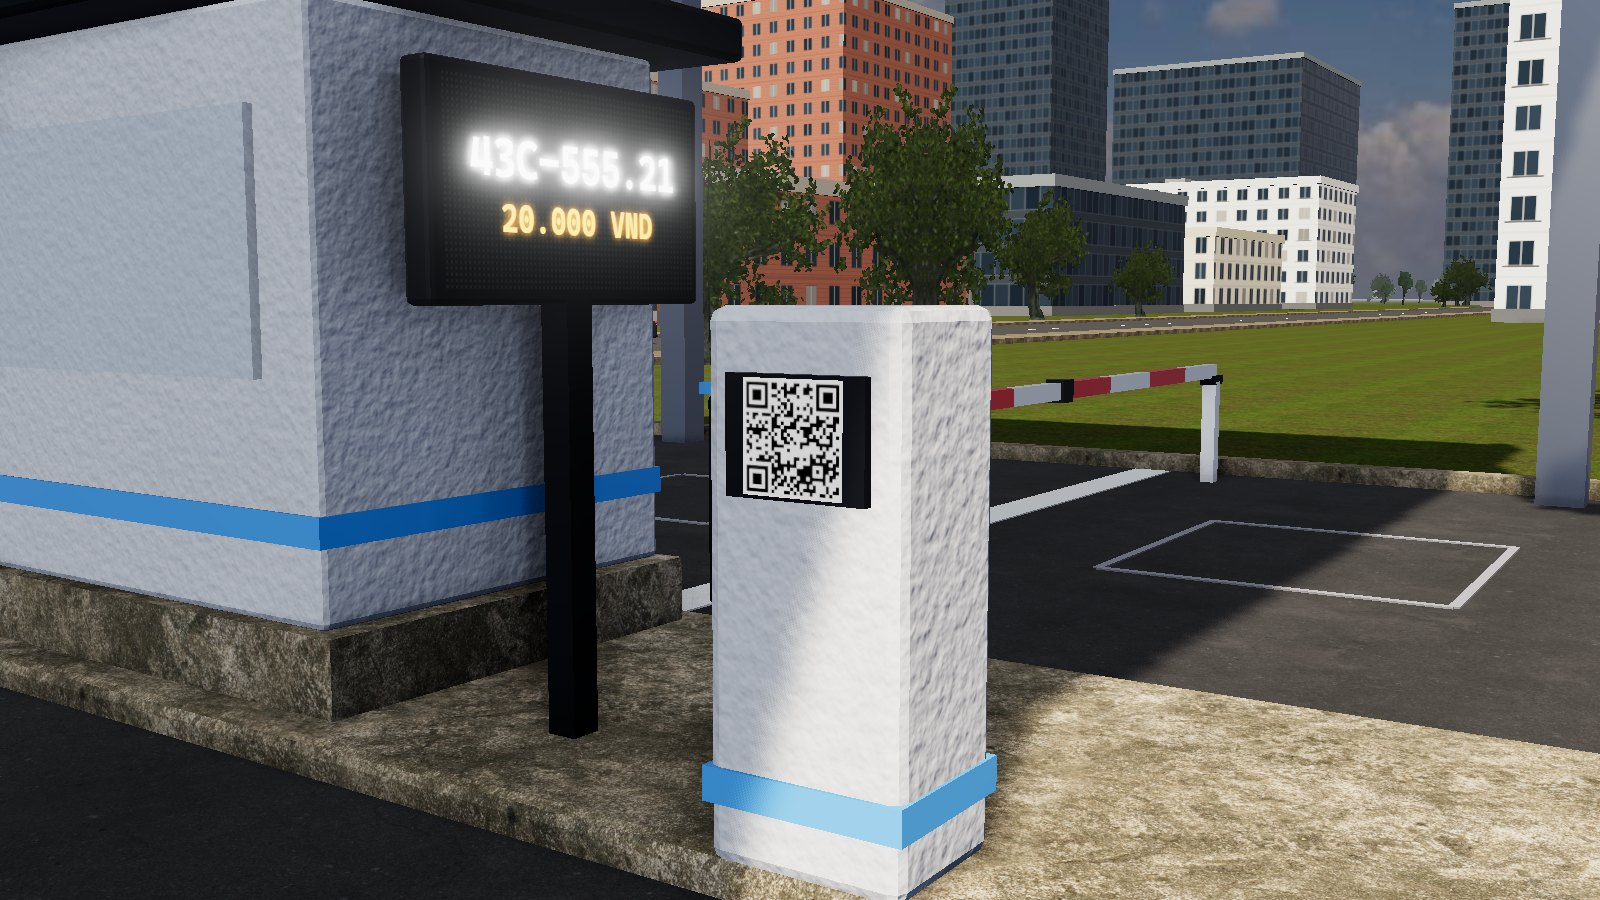
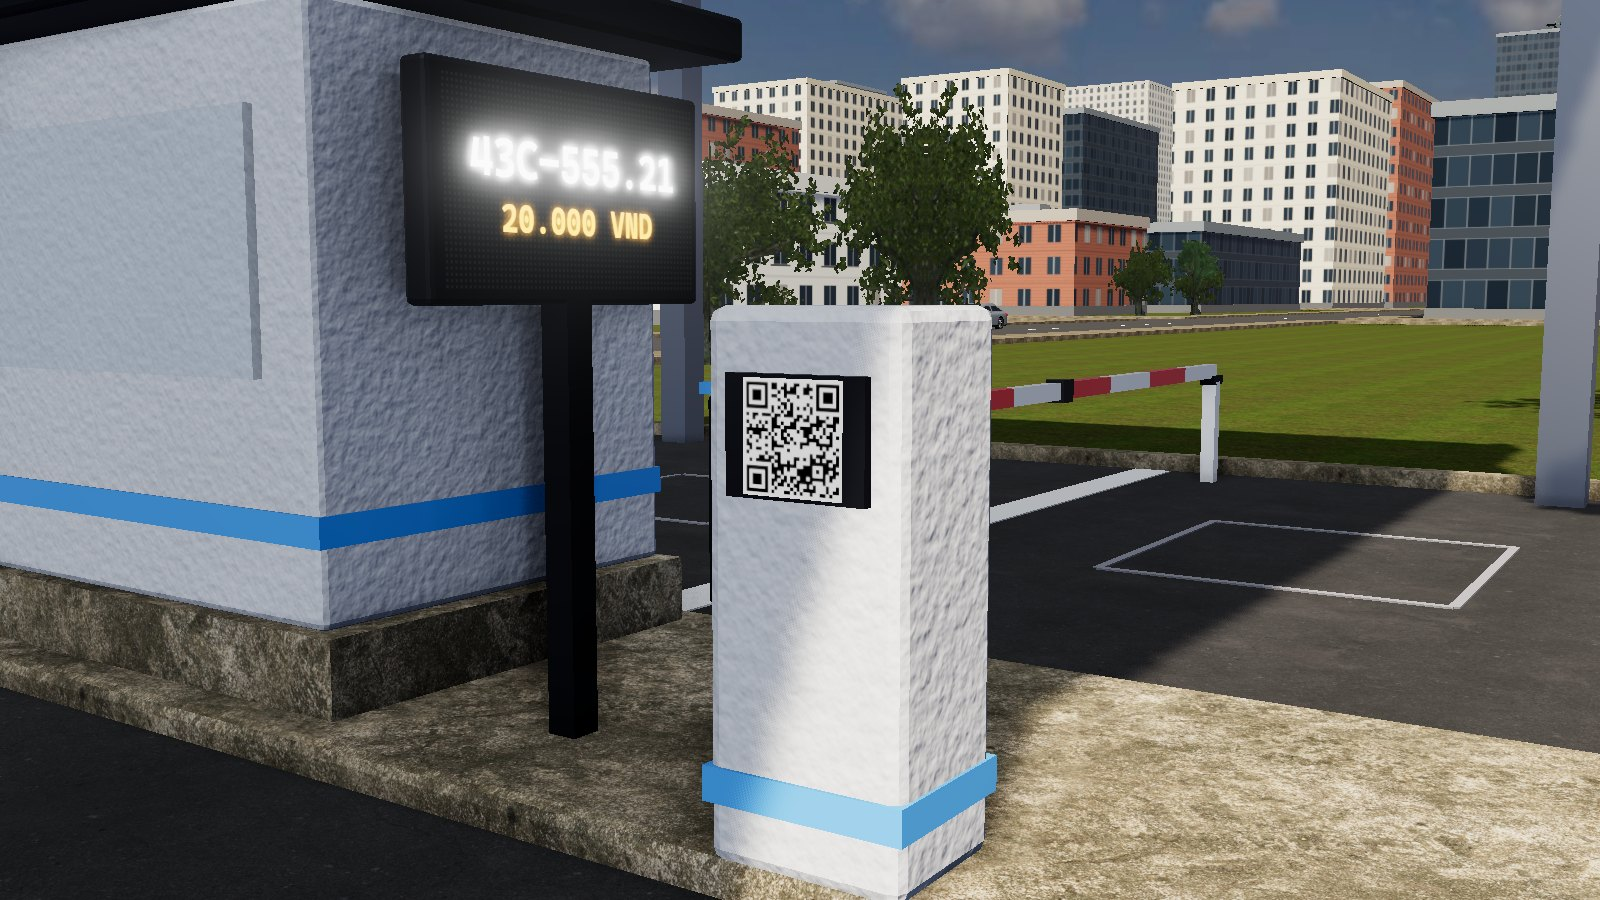
feat(frontend): street grid around the 3D site
- east-west roads and north-south avenues with sidewalks and centre
  dashes; sidewalks open at junctions and corners are paved
- the main street joins the grid; buildings fill the city blocks and
  front their streets, the skyline and the forest stay off the roads
- carriageways are flat planes that abut at junctions (no z-fighting)
- wider sun shadow map at high quality so nearby buildings are not cut off
- landing stills recaptured

Changed region(s): [[0.4375, 0.0, 1.0, 0.3733]]

diff --git a/frontend/src/pages/public/tour/city.ts b/frontend/src/pages/public/tour/city.ts
@@ -127,6 +127,149 @@ function makeFacade(style: Style, seed: number): Facade {
   return { map: tex(cc, true), orm: tex(oc, false) };
 }
 
+// ---------------------------------------------------------------------------
+// Street grid
+// ---------------------------------------------------------------------------
+
+/** A straight road. `axis: 'x'` runs east–west at y = `at`; `'y'` runs north–south at x = `at`. */
+export interface Road {
+  axis: 'x' | 'y';
+  at: number;
+  from: number;
+  to: number;
+  width: number;
+}
+
+const SIDEWALK = 2.5;
+const REACH = 1250;
+
+/**
+ * The plot sits in the block bounded by the main street (y = -46, drawn by the plot model
+ * between x = ±90), the avenues at x = ±100 and the road at y = 100.
+ */
+export const ROADS: readonly Road[] = [
+  // the main street beyond the plot model
+  { axis: 'x', at: -46, from: -REACH, to: -90, width: 12 },
+  { axis: 'x', at: -46, from: 90, to: REACH, width: 12 },
+  // other east–west roads
+  ...[-200, -112, 100, 200].map((at) => ({ axis: 'x' as const, at, from: -REACH, to: REACH, width: 10 })),
+  // north–south avenues
+  ...[-300, -200, -100, 100, 200, 300].map((at) => ({ axis: 'y' as const, at, from: -REACH, to: REACH, width: 10 })),
+  // the side streets on the plot's axis stop at the roads either side of it
+  { axis: 'y', at: 0, from: -REACH, to: -112, width: 10 },
+  { axis: 'y', at: 0, from: 100, to: REACH, width: 10 },
+];
+
+/** Grid lines that bound the city blocks (the plot's block is left out). */
+const XS = [-300, -200, -100, 0, 100, 200, 300];
+const YS = [-200, -112, -46, 100, 200];
+
+const crosses = (r: Road, along: number) => along >= r.from && along <= r.to;
+
+/** Distance-based test: is (x, y) on a road or its sidewalks (plus `margin`)? */
+export function onRoad(x: number, y: number, margin = 0): boolean {
+  return ROADS.some((r) => {
+    const half = r.width / 2 + SIDEWALK + margin;
+    return r.axis === 'x'
+      ? Math.abs(y - r.at) < half && x > r.from - half && x < r.to + half
+      : Math.abs(x - r.at) < half && y > r.from - half && y < r.to + half;
+  });
+}
+
+/** [start, end) intervals of `road` that stay outside every crossing road's corridor at `lineAt`. */
+function openIntervals(road: Road, lineAt: number, pad: number): [number, number][] {
+  const cuts = ROADS.filter((o) => o.axis !== road.axis && o.at > road.from - 1 && o.at < road.to + 1 && crosses(o, lineAt))
+    .map((o) => [o.at - o.width / 2 - pad, o.at + o.width / 2 + pad] as [number, number])
+    .sort((a, b) => a[0] - b[0]);
+  const out: [number, number][] = [];
+  let start = road.from;
+  for (const [a, b] of cuts) {
+    if (a > start) out.push([start, Math.min(a, road.to)]);
+    start = Math.max(start, b);
+  }
+  if (start < road.to) out.push([start, road.to]);
+  return out.filter(([a, b]) => b - a > 0.5);
+}
+
+export interface StreetMaterials {
+  asphalt: THREE.Material;
+  sidewalk: THREE.Material;
+  line: THREE.Material;
+  tiles: { asphalt: number; sidewalk: number };
+}
+
+function buildStreets(m: StreetMaterials, disposables: { dispose(): void }[]): THREE.Group {
+  const g = new THREE.Group();
+  g.name = 'Streets';
+  const slab = (axis: 'x' | 'y', at: number, a: number, b: number, width: number, h: number, mat: THREE.Material, tile: number) => {
+    const len = b - a;
+    const [sx, sz] = axis === 'x' ? [len, width] : [width, len];
+    // carriageways are flat planes: box side faces would show as hairlines where slabs abut
+    const flat = h < 0.1;
+    const geo = flat ? new THREE.PlaneGeometry(sx, sz).rotateX(-Math.PI / 2) : new THREE.BoxGeometry(sx, h, sz);
+    const mesh = new THREE.Mesh(geo, mat);
+    const mid = (a + b) / 2;
+    const y = flat ? h : h / 2;
+    mesh.position.copy(axis === 'x' ? P(mid, at, y) : P(at, mid, y));
+    mesh.receiveShadow = true;
+    applyWorldUVs(mesh, tile);
+    g.add(mesh);
+    disposables.push(geo);
+  };
+  const dashGeo = new THREE.PlaneGeometry(2, 0.15).rotateX(-Math.PI / 2);
+  const dashMatrices: THREE.Matrix4[] = [];
+  const q = new THREE.Quaternion();
+  const one = new THREE.Vector3(1, 1, 1);
+  for (const road of ROADS) {
+    // carriageway: north–south roads run through every junction; east–west ones stop at each
+    // crossing, so no two slabs overlap (overlapping coplanar slabs z-fight)
+    const spans = road.axis === 'y' ? [[road.from, road.to] as [number, number]] : openIntervals(road, road.at, 0);
+    for (const [a, b] of spans) slab(road.axis, road.at, a, b, road.width, 0.04, m.asphalt, m.tiles.asphalt);
+    // sidewalks, cut open where another road crosses that side
+    for (const side of [-1, 1]) {
+      const lineAt = road.at + side * (road.width / 2 + SIDEWALK / 2);
+      for (const [a, b] of openIntervals(road, lineAt, SIDEWALK)) {
+        slab(road.axis, lineAt, a, b, SIDEWALK, 0.2, m.sidewalk, m.tiles.sidewalk);
+      }
+    }
+    // centre-line dashes, kept out of the junctions
+    q.setFromAxisAngle(new THREE.Vector3(0, 1, 0), road.axis === 'x' ? 0 : Math.PI / 2);
+    for (const [a, b] of openIntervals(road, road.at, 1)) {
+      for (let t = a + 2; t < b - 2; t += 4) {
+        const pos = road.axis === 'x' ? P(t, road.at, 0.05) : P(road.at, t, 0.05);
+        dashMatrices.push(new THREE.Matrix4().compose(pos, q, one));
+      }
+    }
+  }
+  // corner squares: where both roads carry on into a quadrant, pave where their sidewalks meet
+  for (const a of ROADS.filter((r) => r.axis === 'x')) {
+    for (const b of ROADS.filter((r) => r.axis === 'y')) {
+      if (b.at < a.from - 1 || b.at > a.to + 1 || !crosses(b, a.at)) continue;
+      for (const sx of [-1, 1]) {
+        for (const sy of [-1, 1]) {
+          const aGoes = sx < 0 ? a.from < b.at - 1 : a.to > b.at + 1;
+          const bGoes = sy < 0 ? b.from < a.at - 1 : b.to > a.at + 1;
+          if (!aGoes || !bGoes) continue;
+          const cx = b.at + sx * (b.width / 2 + SIDEWALK / 2);
+          const cy = a.at + sy * (a.width / 2 + SIDEWALK / 2);
+          slab('x', cy, cx - SIDEWALK / 2, cx + SIDEWALK / 2, SIDEWALK, 0.2, m.sidewalk, m.tiles.sidewalk);
+        }
+      }
+    }
+  }
+  const dashes = new THREE.InstancedMesh(dashGeo, m.line, dashMatrices.length);
+  dashMatrices.forEach((mx, i) => dashes.setMatrixAt(i, mx));
+  dashes.receiveShadow = true;
+  dashes.computeBoundingSphere();
+  g.add(dashes);
+  disposables.push(dashGeo);
+  return g;
+}
+
+// ---------------------------------------------------------------------------
+// Blocks and buildings
+// ---------------------------------------------------------------------------
+
 interface Block {
   x: number;
   y: number;
@@ -136,63 +279,67 @@ interface Block {
   style: Style;
 }
 
-/** The layout: hand-placed nearby blocks plus a scattered skyline. */
+/** Fill every city block with buildings that front its streets, then scatter a far skyline. */
 function layout(): Block[] {
   const r = rng(91);
   const out: Block[] = [];
   const styles: Style[] = ['glass', 'apartment', 'brick', 'cream'];
   const pick = () => styles[Math.floor(r() * styles.length)];
   const floors = (lo: number, hi: number) => (lo + Math.floor(r() * (hi - lo + 1))) * 3;
+  // setback from the road centre line: half the road, the sidewalk and a front strip
+  const SET = 5 + SIDEWALK + 3;
 
-  // across the street, set back behind a verge
-  for (let x = -230; x < 230; ) {
-    const w = 22 + r() * 22;
-    const d = 18 + r() * 14;
-    out.push({ x: x + w / 2, y: -64 - d / 2 - r() * 6, w, d, h: floors(3, 7), style: pick() });
-    x += w + 7 + r() * 10;
-  }
-  // second row behind it
-  for (let x = -260; x < 260; ) {
-    const w = 26 + r() * 28;
-    const d = 22 + r() * 16;
-    out.push({ x: x + w / 2, y: -122 - d / 2 - r() * 10, w, d, h: floors(6, 18), style: pick() });
-    x += w + 10 + r() * 14;
-  }
-  // west and east of the plot
-  for (const side of [-1, 1]) {
-    for (let y = -30; y < 150; ) {
-      const d = 22 + r() * 22;
-      const w = 20 + r() * 18;
-      out.push({ x: side * (102 + w / 2 + r() * 8), y: y + d / 2, w, d, h: floors(3, 10), style: pick() });
-      y += d + 8 + r() * 10;
+  /** Fill one rectangle with buildings in one or two rows along x. */
+  const fill = (x0: number, x1: number, y0: number, y1: number, lo: number, hi: number) => {
+    const depth = y1 - y0;
+    const rows = depth > 58 ? 2 : 1;
+    for (let row = 0; row < rows; row++) {
+      // with two rows, one fronts the southern street and one the northern street
+      const rowDepth = rows === 2 ? Math.min(28, depth / 2 - 4) : Math.min(30, depth);
+      for (let x = x0; x < x1 - 12; ) {
+        const w = Math.min(x1 - x, 18 + r() * 24);
+        if (w < 12) break;
+        const d = rowDepth * (0.7 + r() * 0.3);
+        const y = rows === 1 ? (y0 + y1) / 2 : row === 0 ? y0 + d / 2 : y1 - d / 2;
+        out.push({ x: x + w / 2, y, w, d, h: floors(lo, hi), style: pick() });
+        x += w + 4 + r() * 6; // narrow gaps between neighbours, like an alley or a side yard
+      }
+    }
+  };
+
+  for (let i = 0; i < XS.length - 1; i++) {
+    for (let j = 0; j < YS.length - 1; j++) {
+      const [ax, bx, ay, by] = [XS[i], XS[i + 1], YS[j], YS[j + 1]];
+      // the plot's own block, and the strip across the plot's axis where no road splits it
+      if (ax >= -100 && bx <= 100 && ay >= -46 && by <= 100) continue;
+      // the x = 0 side street only runs south of -112 and north of 100: in between, the two
+      // halves either side of it are one block
+      const unsplit = ay >= -112 && by <= 100;
+      if (unsplit && ax === 0) continue;
+      const right = unsplit && bx === 0 ? 100 : bx;
+      const near = Math.max(Math.abs((ax + bx) / 2), Math.abs((ay + by) / 2)) < 160;
+      fill(ax + SET, right - SET, ay + SET, by - SET, near ? 3 : 6, near ? 8 : 16);
     }
   }
-  // behind the office building
-  for (let x = -90; x < 90; ) {
-    const w = 24 + r() * 20;
-    out.push({ x: x + w / 2, y: 112 + r() * 14, w, d: 20 + r() * 12, h: floors(5, 14), style: pick() });
-    x += w + 9 + r() * 10;
-  }
-  // skyline: towers well beyond, mostly to the south and north where the wide shots look
-  for (let i = 0; i < 34; i++) {
+  // skyline: towers further out, off the roads
+  for (let i = 0, tries = 0; i < 40 && tries < 600; tries++) {
     const ang = r() * Math.PI * 2;
-    const rad = 280 + r() * 260;
-    const w = 26 + r() * 26;
-    out.push({
-      x: Math.cos(ang) * rad,
-      y: Math.sin(ang) * rad,
-      w,
-      d: w * (0.8 + r() * 0.5),
-      h: floors(14, 34),
-      style: r() < 0.55 ? 'glass' : pick(),
-    });
+    const rad = 340 + r() * 280;
+    const x = Math.cos(ang) * rad;
+    const y = Math.sin(ang) * rad;
+    const w = 24 + r() * 24;
+    const d = w * (0.8 + r() * 0.4);
+    if (onRoad(x, y, Math.max(w, d) / 2 + 2)) continue;
+    if (out.some((b) => Math.abs(b.x - x) < (b.w + w) / 2 + 6 && Math.abs(b.y - y) < (b.d + d) / 2 + 6)) continue;
+    out.push({ x, y, w, d, h: floors(14, 34), style: r() < 0.55 ? 'glass' : pick() });
+    i++;
   }
   return out;
 }
 
 export interface City {
   group: THREE.Group;
-  /** true where a building stands (Blender x/y), so trees can stay out of it */
+  /** true where a building or a road is (Blender x/y), so trees stay off them */
   occupied(x: number, y: number): boolean;
   disposables: { dispose(): void }[];
 }
@@ -201,10 +348,15 @@ export interface City {
  * `keepClear`: camera positions (Blender x/y/z) the tour flies through. Buildings that would
  * contain or loom over one are dropped or cut down, so no shot starts inside a wall.
  */
-export function buildCity(roof: THREE.Material, keepClear: readonly (readonly [number, number, number])[] = []): City {
+export function buildCity(
+  roof: THREE.Material,
+  streets: StreetMaterials,
+  keepClear: readonly (readonly [number, number, number])[] = [],
+): City {
   const group = new THREE.Group();
   group.name = 'City';
   const disposables: { dispose(): void }[] = [];
+  group.add(buildStreets(streets, disposables));
 
   const facades = new Map<Style, THREE.MeshPhysicalMaterial>();
   const facadeMat = (style: Style) => {
@@ -279,6 +431,6 @@ export function buildCity(roof: THREE.Material, keepClear: readonly (readonly [n
   }
 
   const occupied = (x: number, y: number) =>
-    blocks.some((b) => Math.abs(x - b.x) < b.w / 2 + 6 && Math.abs(y - b.y) < b.d / 2 + 6);
+    onRoad(x, y, 3) || blocks.some((b) => Math.abs(x - b.x) < b.w / 2 + 6 && Math.abs(y - b.y) < b.d / 2 + 6);
   return { group, occupied, disposables };
 }

diff --git a/frontend/src/pages/public/tour/ParkingScene.ts b/frontend/src/pages/public/tour/ParkingScene.ts
@@ -342,8 +342,12 @@ export class ParkingScene {
     this.sun = sun;
     this.scene.environmentIntensity = 0.3;
     sun.castShadow = true;
-    sun.shadow.mapSize.set(2048, 2048);
-    Object.assign(sun.shadow.camera, { left: -75, right: 75, top: 75, bottom: -75, near: 10, far: 260 });
+    // cover the blocks around the plot too, so nearby buildings cast whole shadows instead of
+    // ones cut off square at the edge of the shadow map; same texel size at high quality
+    const wide = this.quality === 'high';
+    const half = wide ? 150 : 75;
+    sun.shadow.mapSize.set(wide ? 4096 : 2048, wide ? 4096 : 2048);
+    Object.assign(sun.shadow.camera, { left: -half, right: half, top: half, bottom: -half, near: 10, far: 400 });
     sun.shadow.bias = -0.0004;
     sun.shadow.normalBias = 0.03;
     this.scene.add(sun, sun.target, this.parkedGroup);
@@ -462,7 +466,16 @@ export class ParkingScene {
     // carry the ground, street and trees out to the horizon
     const mat = (n: string) => upgraded.get(n) as THREE.Material;
     // neighbourhood: buildings across the street, either side and behind; roofs in the concrete
-    const city = buildCity(mat('Concrete'), [...CAMERA_KEYS.map((k) => k.pos), [-30, -58, 3.5], [44, -26, 27]]);
+    const city = buildCity(
+      mat('Concrete'),
+      {
+        asphalt: mat('Asphalt'),
+        sidewalk: mat('Sidewalk'),
+        line: mat('LineWhite'),
+        tiles: photo ? { asphalt: PHOTO_TILE.asphalt, sidewalk: PHOTO_TILE.concrete } : { asphalt: 4, sidewalk: 3 },
+      },
+      [...CAMERA_KEYS.map((k) => k.pos), [-30, -58, 3.5], [44, -26, 27]],
+    );
     this.disposables.push(...city.disposables);
     this.scene.add(city.group);
     const around = buildSurroundings(
@@ -484,6 +497,7 @@ export class ParkingScene {
           }
         : undefined,
       city.occupied,
+      true,
     );
     if (trees) {
       // the scanned trees replace the plot's low-poly crowns, trunks and planter bushes

diff --git a/frontend/src/pages/public/tour/realism.ts b/frontend/src/pages/public/tour/realism.ts
@@ -483,6 +483,8 @@ export function buildSurroundings(
   forest?: (spots: { pos: THREE.Vector3; height: number; yaw: number }[]) => THREE.Object3D,
   /** keeps trees out of building footprints (Blender x/y) */
   blocked?: (x: number, y: number) => boolean,
+  /** the city draws the street network itself, main street extension included */
+  skipStreet = false,
   radius = 1400,
 ): THREE.Group {
   const g = new THREE.Group();
@@ -503,7 +505,7 @@ export function buildSurroundings(
   // the street (Blender y = -46) and its sidewalks, continued past both ends of the plot
   const PLOT_X = 90;
   const len = radius - PLOT_X;
-  for (const side of [-1, 1]) {
+  for (const side of skipStreet ? [] : [-1, 1]) {
     const cx = side * (PLOT_X + len / 2);
     const street = add(new THREE.BoxGeometry(len, 0.04, 12), materials.asphalt, tiles.asphalt);
     street.position.copy(P(cx, -46, 0.02));
@@ -518,7 +520,7 @@ export function buildSurroundings(
   const dashes = new THREE.InstancedMesh(dashGeo, materials.line, dashCount);
   const m4 = new THREE.Matrix4();
   let d = 0;
-  for (const side of [-1, 1]) {
+  for (const side of skipStreet ? [] : [-1, 1]) {
     for (let x = PLOT_X + 2; x < radius && d < dashCount; x += 4) {
       m4.makeTranslation(P(side * x, -46, 0.045));
       dashes.setMatrixAt(d++, m4);
